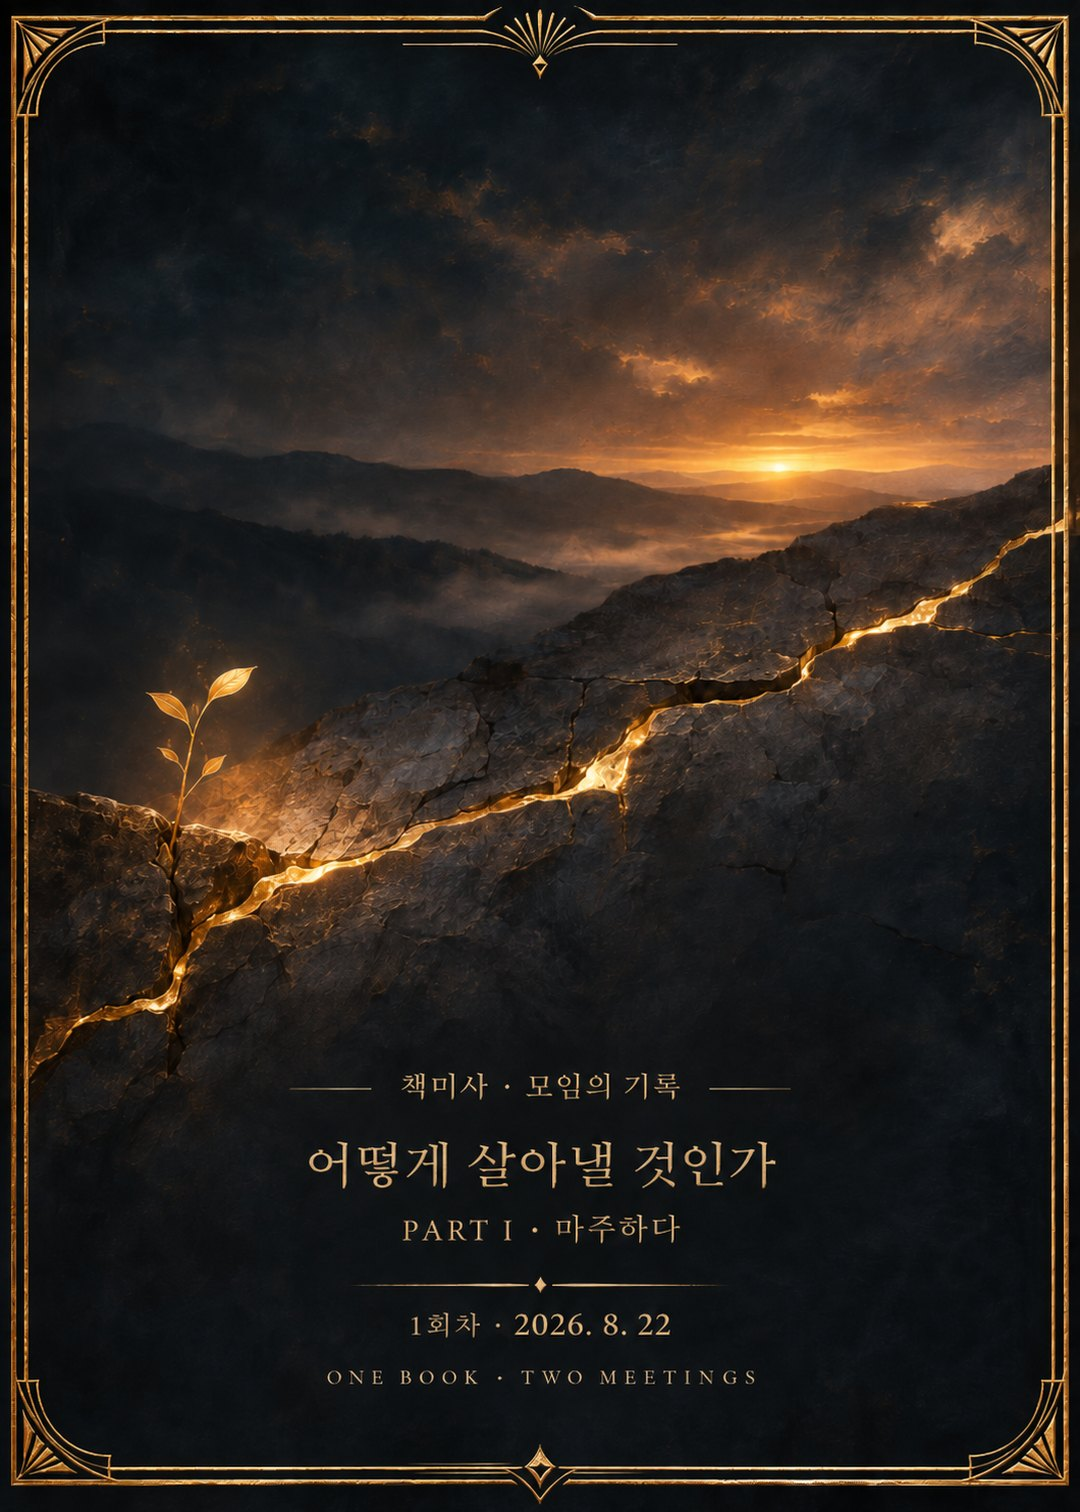
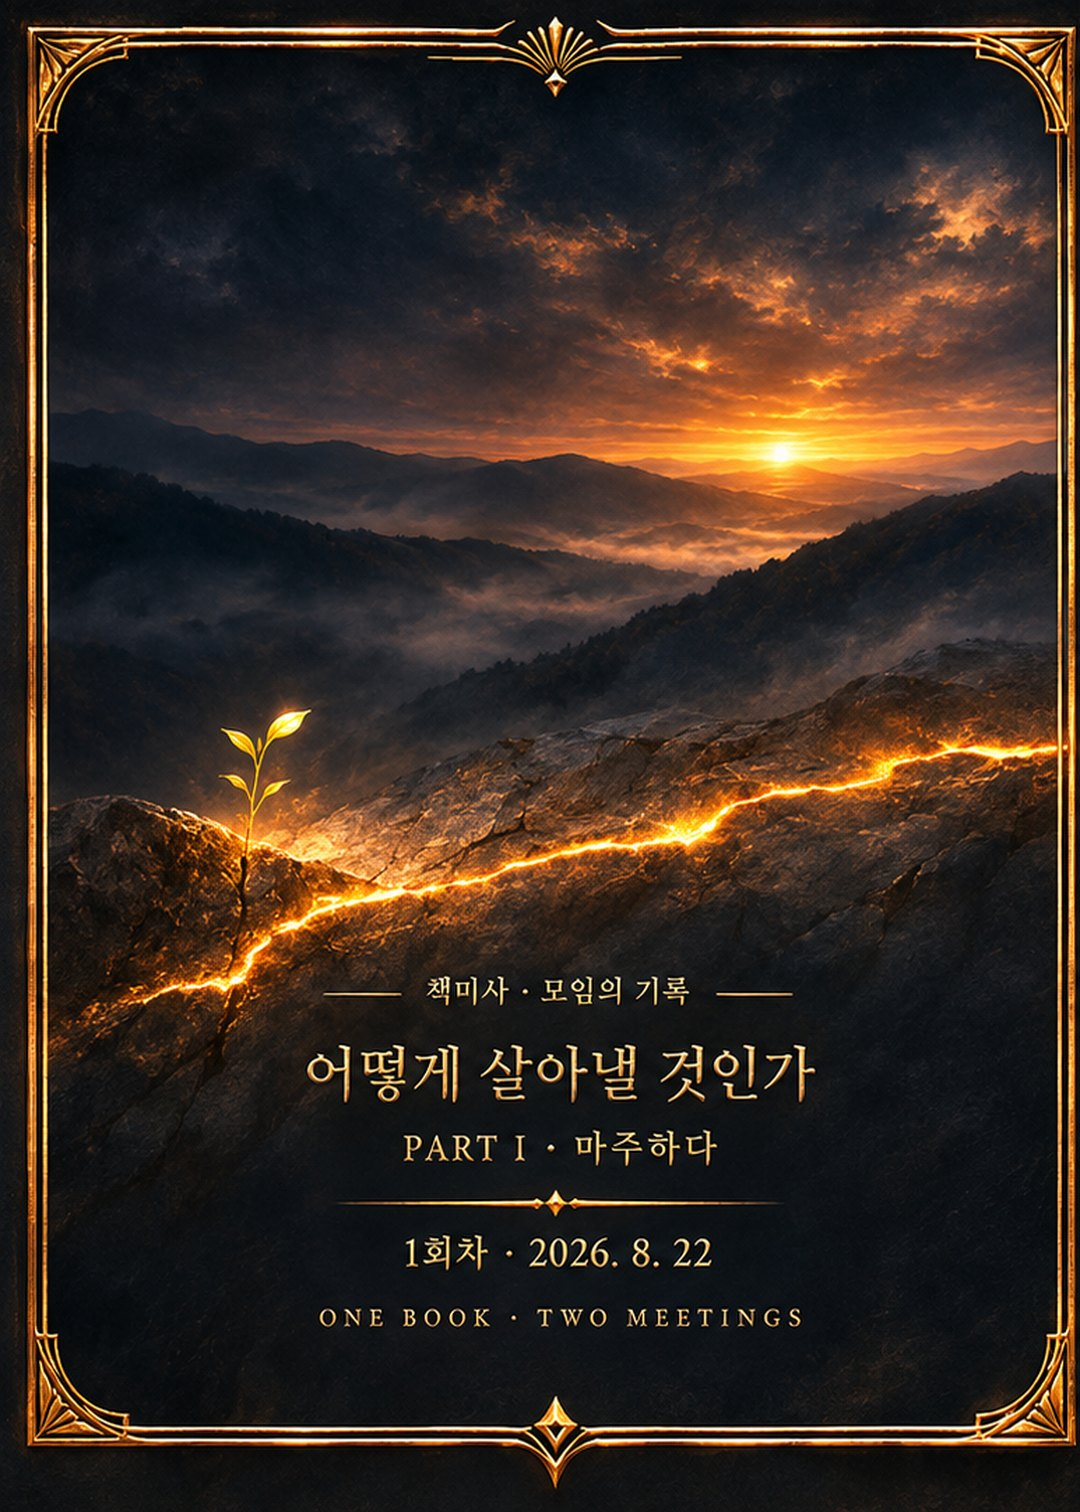
연결형 모임카드 그림 다시 받음(1080x1512, 균열 이어짐)

diff --git a/index.html b/index.html
@@ -1663,11 +1663,11 @@ window.MEMBERS={"에스파다": [0, 1, 2, 3, 4, 5, 6, 7, 8, 9, 10, 11, 12, 13, 1
 window.MEETS={"m": {"6": ["2026-04-18", "경제독서"], "0": ["2026-06-20", "문학산책"], "5": ["2026-07-04", "지정독서"], "4": ["2026-07-25", "지정독서"], "1": ["2026-08-12", "수요독서"], "2": ["2026-08-22", "지정독서"], "7": ["2026-08-29", "문학산책"], "3": ["2026-09-12", "문학산책"], "136": ["2026-10-17", "문학산책"], "164": ["2026-10-24", "지정독서"], "168": ["2026-11-07", "지정독서"], "169": ["2026-11-14", "지정독서"], "170": ["2026-11-21", "문학산책"], "8": ["2022-07-23", "문학산책"], "9": ["2022-08-20", "문학산책"], "10": ["2022-09-24", "문학산책"], "11": ["2022-09-25", "경제독서"], "12": ["2022-09-26", "경제독서"], "13": ["2022-09-30", "지정독서"], "14": ["2022-10-03", "한책읽기"], "15": ["2022-10-03", "경제독서"], "16": ["2022-10-05", "경제독서"], "17": ["2022-10-10", "수요독서"], "18": ["2022-10-22", "문학산책"], "19": ["2022-10-26", "경제독서"], "20": ["2022-10-29", "지정독서"], "21": ["2022-11-05", "지원독서"], "22": ["2022-11-21", "오프모임"], "23": ["2022-11-26", "문학산책"], "24": ["2022-11-30", "경제독서"], "25": ["2022-12-03", "지원독서"], "26": ["2023-01-02", "한책읽기"], "27": ["2023-01-08", "수요독서"], "28": ["2023-01-09", "문학산책"], "29": ["2023-01-19", "지정독서"], "30": ["2023-01-21", "경제독서"], "31": ["2023-02-02", "지정독서"], "32": ["2023-02-10", "지정독서"], "33": ["2023-02-12", "수요독서"], "34": ["2023-02-25", "오프모임"], "35": ["2023-02-26", "경제독서"], "36": ["2023-03-02", "한책읽기"], "37": ["2023-03-07", "지정독서"], "38": ["2023-03-16", "지정독서"], "39": ["2023-03-20", "문학산책"], "40": ["2023-03-22", "경제독서"], "41": ["2023-04-05", "지정독서"], "42": ["2023-04-19", "문학산책"], "43": ["2023-04-24", "경제독서"], "44": ["2023-05-06", "오프모임"], "45": ["2023-05-30", "수요독서"], "46": ["2023-05-30", "경제독서"], "47": ["2023-05-30", "문학산책"], "48": ["2023-06-05", "한책읽기"], "49": ["2023-06-09", "지정독서"], "50": ["2023-06-16", "문학산책"], "51": ["2023-06-24", "경제독서"], "52": ["2023-07-08", "오프모임"], "53": ["2023-07-18", "수요독서"], "54": ["2023-07-21", "문학산책"], "55": ["2023-07-29", "경제독서"], "56": ["2023-08-04", "지원독서"], "57": ["2023-08-10", "지정독서"], "58": ["2023-08-19", "한책읽기"], "59": ["2023-08-21", "경제독서"], "60": ["2023-08-21", "문학산책"], "61": ["2023-09-01", "지원독서"], "62": ["2023-09-09", "오프모임"], "63": ["2023-09-20", "수요독서"], "64": ["2023-09-22", "경제독서"], "65": ["2023-10-13", "지정독서"], "66": ["2023-10-20", "문학산책"], "67": ["2023-10-29", "경제독서"], "68": ["2023-11-18", "오프모임"], "69": ["2023-11-16", "문학산책"], "70": ["2023-11-20", "수요독서"], "71": ["2023-11-23", "경제독서"], "72": ["2023-12-08", "오프모임"], "73": ["2023-12-15", "지정독서"], "74": ["2023-12-28", "경제독서"], "75": ["2024-01-13", "지정독서"], "76": ["2024-01-14", "수요독서"], "77": ["2024-01-19", "문학산책"], "78": ["2024-01-27", "경제독서"], "79": ["2024-02-03", "문학산책"], "80": ["2024-02-13", "한책읽기"], "81": ["2024-02-17", "오프모임"], "82": ["2024-02-23", "경제독서"], "83": ["2024-03-09", "지정독서"], "84": ["2024-03-14", "문학산책"], "85": ["2024-04-01", "한책읽기"], "86": ["2024-03-26", "수요독서"], "87": ["2024-03-30", "경제독서"], "88": ["2024-04-04", "지정독서"], "89": ["2024-04-13", "오프모임"], "90": ["2024-04-18", "문학산책"], "91": ["2024-04-22", "수요독서"], "92": ["2024-04-25", "경제독서"], "93": ["2024-05-12", "지정독서"], "94": ["2024-05-25", "경제독서"], "95": ["2024-06-14", "지정독서"], "96": ["2024-06-21", "문학산책"], "97": ["2024-07-01", "한책읽기"], "98": ["2024-07-07", "지정독서"], "99": ["2024-07-24", "경제독서"], "100": ["2024-07-24", "문학산책"], "101": ["2024-09-01", "경제독서"], "102": ["2024-09-03", "지정독서"], "103": ["2024-09-03", "문학산책"], "104": ["2024-09-08", "지정독서"], "105": ["2024-10-01", "한책읽기"], "106": ["2024-09-21", "수요독서"], "107": ["2024-09-26", "경제독서"], "108": ["2024-10-12", "오프모임"], "109": ["2024-10-19", "문학산책"], "110": ["2024-10-23", "수요독서"], "111": ["2024-10-30", "지정독서"], "112": ["2024-11-11", "지정독서"], "113": ["2024-11-21", "문학산책"], "114": ["2024-11-27", "경제독서"], "115": ["2022-09-14", "수요독서"], "116": ["2025-11-15", "지정독서"], "117": ["2026-01-31", "지정독서"], "118": ["2025-05-24", "문학산책"], "119": ["2026-03-21", "문학산책"], "120": ["2025-05-10", "오프모임"], "121": ["2025-02-06", "한책읽기"], "122": ["2025-05-08", "한책읽기"], "123": ["2025-07-26", "지정독서"], "124": ["2024-03-24", "오프모임"], "125": ["2026-04-11", "문학산책"], "126": ["2026-02-28", "경제독서"], "127": ["2026-05-09", "경제독서"], "128": ["2026-02-14", "오프모임"], "129": ["2025-02-22", "오프모임"], "130": ["2020-01-04", "오프모임"], "131": ["2020-02-08", "오프모임"], "132": ["2020-07-31", "오프모임"], "133": ["2021-01-23", "지정독서"], "134": ["2021-10-16", "지정독서"], "137": ["2022-03-19", "문학산책"], "138": ["2022-04-02", "지정독서"], "139": ["2022-04-23", "문학산책"], "140": ["2022-05-07", "지정독서"], "141": ["2022-05-21", "문학산책"], "142": ["2022-06-11", "지정독서"], "143": ["2022-06-25", "문학산책"], "144": ["2022-06-20", "한책읽기"], "145": ["2022-08-15", "한책읽기"], "146": ["2022-08-03", "수요독서"], "147": ["2023-09-16", "문학산책"], "148": ["2024-01-28", "문학산책"], "149": ["2024-08-09", "오프모임"], "150": ["2024-12-20", "오프모임"], "151": ["2022-02-19", "문학산책"], "152": ["2022-03-16", "경제독서"], "153": ["2025-01-11", "지정독서"], "154": ["2025-02-08", "문학산책"], "155": ["2025-01-18", "경제독서"], "156": ["2025-03-22", "문학산책"], "157": ["2025-04-05", "경제독서"], "158": ["2025-04-17", "수요독서"], "159": ["2025-04-26", "경제독서"], "160": ["2025-05-31", "경제독서"], "161": ["2025-06-21", "문학산책"], "162": ["2025-07-12", "수요독서"], "163": ["2025-08-30", "경제독서"], "165": ["2025-08-23", "지정독서"], "166": ["2025-02-26", "지정독서"], "167": ["2025-02-01", "문학산책"]}, "u": [{"t": "남에게 보여주려고 인생을 낭비하지 마라", "m": "지정독서", "d": "2026-11-28"}, {"t": "달과 6펜스", "m": "문학산책", "d": "2026-12-05"}, {"t": "러브 머신", "m": "지정독서", "d": "2026-12-12"}, {"t": "브레이크넥", "m": "경제독서", "d": "2026-12-19"}, {"t": "드디어 만나는 천문학 수업", "m": "지정독서", "d": "2026-12-26"}], "n": {"26": 20, "28": 13, "27": 9, "29": 10, "30": 13, "31": 12, "32": 11, "34": 10, "35": 9, "36": 18, "37": 15, "33": 10, "38": 13, "39": 12, "40": 7, "41": 7, "42": 15, "43": 10, "44": 13, "47": 14, "45": 9, "46": 7, "48": 20, "49": 26, "50": 13, "51": 7, "52": 20, "53": 11, "54": 20, "55": 14, "57": 15, "60": 14, "58": 11, "59": 18, "61": 8, "62": 21, "147": 11, "63": 20, "64": 11, "65": 11, "66": 16, "67": 11, "69": 10, "68": 19, "70": 16, "71": 10, "72": 13, "73": 26, "75": 15, "80": 23, "76": 20, "77": 21, "78": 8, "148": 12, "79": 15, "81": 11, "82": 17, "83": 19, "84": 23, "86": 16, "124": 18, "87": 13, "85": 28, "90": 20, "91": 15, "92": 9, "89": 17, "93": 14, "94": 10, "95": 26, "115": 20, "96": 21, "97": 22, "98": 20, "100": 15, "99": 12, "102": 20, "149": 13, "106": 13, "103": 10, "101": 8, "104": 24, "107": 9, "108": 17, "105": 24, "109": 15, "110": 11, "112": 13, "113": 23, "114": 12, "150": 14}};
 window.MEETART={
 "2026-08-22": {
-"bg": "#110f0d",
+"bg": "#13100e",
 "full": 1
 },
 "2026-09-19": {
-"bg": "#12100d",
+"bg": "#14110e",
 "full": 1
 },
 "2026-11-07": {

diff --git a/binder/index.html b/binder/index.html
@@ -71,11 +71,11 @@ window.MEMBERS={"에스파다": [0, 1, 2, 3, 4, 5, 6, 7, 8, 9, 10, 11, 12, 13, 1
 window.MEETS={"m": {"6": ["2026-04-18", "경제독서"], "0": ["2026-06-20", "문학산책"], "5": ["2026-07-04", "지정독서"], "4": ["2026-07-25", "지정독서"], "1": ["2026-08-12", "수요독서"], "2": ["2026-08-22", "지정독서"], "7": ["2026-08-29", "문학산책"], "3": ["2026-09-12", "문학산책"], "136": ["2026-10-17", "문학산책"], "164": ["2026-10-24", "지정독서"], "168": ["2026-11-07", "지정독서"], "169": ["2026-11-14", "지정독서"], "170": ["2026-11-21", "문학산책"], "8": ["2022-07-23", "문학산책"], "9": ["2022-08-20", "문학산책"], "10": ["2022-09-24", "문학산책"], "11": ["2022-09-25", "경제독서"], "12": ["2022-09-26", "경제독서"], "13": ["2022-09-30", "지정독서"], "14": ["2022-10-03", "한책읽기"], "15": ["2022-10-03", "경제독서"], "16": ["2022-10-05", "경제독서"], "17": ["2022-10-10", "수요독서"], "18": ["2022-10-22", "문학산책"], "19": ["2022-10-26", "경제독서"], "20": ["2022-10-29", "지정독서"], "21": ["2022-11-05", "지원독서"], "22": ["2022-11-21", "오프모임"], "23": ["2022-11-26", "문학산책"], "24": ["2022-11-30", "경제독서"], "25": ["2022-12-03", "지원독서"], "26": ["2023-01-02", "한책읽기"], "27": ["2023-01-08", "수요독서"], "28": ["2023-01-09", "문학산책"], "29": ["2023-01-19", "지정독서"], "30": ["2023-01-21", "경제독서"], "31": ["2023-02-02", "지정독서"], "32": ["2023-02-10", "지정독서"], "33": ["2023-02-12", "수요독서"], "34": ["2023-02-25", "오프모임"], "35": ["2023-02-26", "경제독서"], "36": ["2023-03-02", "한책읽기"], "37": ["2023-03-07", "지정독서"], "38": ["2023-03-16", "지정독서"], "39": ["2023-03-20", "문학산책"], "40": ["2023-03-22", "경제독서"], "41": ["2023-04-05", "지정독서"], "42": ["2023-04-19", "문학산책"], "43": ["2023-04-24", "경제독서"], "44": ["2023-05-06", "오프모임"], "45": ["2023-05-30", "수요독서"], "46": ["2023-05-30", "경제독서"], "47": ["2023-05-30", "문학산책"], "48": ["2023-06-05", "한책읽기"], "49": ["2023-06-09", "지정독서"], "50": ["2023-06-16", "문학산책"], "51": ["2023-06-24", "경제독서"], "52": ["2023-07-08", "오프모임"], "53": ["2023-07-18", "수요독서"], "54": ["2023-07-21", "문학산책"], "55": ["2023-07-29", "경제독서"], "56": ["2023-08-04", "지원독서"], "57": ["2023-08-10", "지정독서"], "58": ["2023-08-19", "한책읽기"], "59": ["2023-08-21", "경제독서"], "60": ["2023-08-21", "문학산책"], "61": ["2023-09-01", "지원독서"], "62": ["2023-09-09", "오프모임"], "63": ["2023-09-20", "수요독서"], "64": ["2023-09-22", "경제독서"], "65": ["2023-10-13", "지정독서"], "66": ["2023-10-20", "문학산책"], "67": ["2023-10-29", "경제독서"], "68": ["2023-11-18", "오프모임"], "69": ["2023-11-16", "문학산책"], "70": ["2023-11-20", "수요독서"], "71": ["2023-11-23", "경제독서"], "72": ["2023-12-08", "오프모임"], "73": ["2023-12-15", "지정독서"], "74": ["2023-12-28", "경제독서"], "75": ["2024-01-13", "지정독서"], "76": ["2024-01-14", "수요독서"], "77": ["2024-01-19", "문학산책"], "78": ["2024-01-27", "경제독서"], "79": ["2024-02-03", "문학산책"], "80": ["2024-02-13", "한책읽기"], "81": ["2024-02-17", "오프모임"], "82": ["2024-02-23", "경제독서"], "83": ["2024-03-09", "지정독서"], "84": ["2024-03-14", "문학산책"], "85": ["2024-04-01", "한책읽기"], "86": ["2024-03-26", "수요독서"], "87": ["2024-03-30", "경제독서"], "88": ["2024-04-04", "지정독서"], "89": ["2024-04-13", "오프모임"], "90": ["2024-04-18", "문학산책"], "91": ["2024-04-22", "수요독서"], "92": ["2024-04-25", "경제독서"], "93": ["2024-05-12", "지정독서"], "94": ["2024-05-25", "경제독서"], "95": ["2024-06-14", "지정독서"], "96": ["2024-06-21", "문학산책"], "97": ["2024-07-01", "한책읽기"], "98": ["2024-07-07", "지정독서"], "99": ["2024-07-24", "경제독서"], "100": ["2024-07-24", "문학산책"], "101": ["2024-09-01", "경제독서"], "102": ["2024-09-03", "지정독서"], "103": ["2024-09-03", "문학산책"], "104": ["2024-09-08", "지정독서"], "105": ["2024-10-01", "한책읽기"], "106": ["2024-09-21", "수요독서"], "107": ["2024-09-26", "경제독서"], "108": ["2024-10-12", "오프모임"], "109": ["2024-10-19", "문학산책"], "110": ["2024-10-23", "수요독서"], "111": ["2024-10-30", "지정독서"], "112": ["2024-11-11", "지정독서"], "113": ["2024-11-21", "문학산책"], "114": ["2024-11-27", "경제독서"], "115": ["2022-09-14", "수요독서"], "116": ["2025-11-15", "지정독서"], "117": ["2026-01-31", "지정독서"], "118": ["2025-05-24", "문학산책"], "119": ["2026-03-21", "문학산책"], "120": ["2025-05-10", "오프모임"], "121": ["2025-02-06", "한책읽기"], "122": ["2025-05-08", "한책읽기"], "123": ["2025-07-26", "지정독서"], "124": ["2024-03-24", "오프모임"], "125": ["2026-04-11", "문학산책"], "126": ["2026-02-28", "경제독서"], "127": ["2026-05-09", "경제독서"], "128": ["2026-02-14", "오프모임"], "129": ["2025-02-22", "오프모임"], "130": ["2020-01-04", "오프모임"], "131": ["2020-02-08", "오프모임"], "132": ["2020-07-31", "오프모임"], "133": ["2021-01-23", "지정독서"], "134": ["2021-10-16", "지정독서"], "137": ["2022-03-19", "문학산책"], "138": ["2022-04-02", "지정독서"], "139": ["2022-04-23", "문학산책"], "140": ["2022-05-07", "지정독서"], "141": ["2022-05-21", "문학산책"], "142": ["2022-06-11", "지정독서"], "143": ["2022-06-25", "문학산책"], "144": ["2022-06-20", "한책읽기"], "145": ["2022-08-15", "한책읽기"], "146": ["2022-08-03", "수요독서"], "147": ["2023-09-16", "문학산책"], "148": ["2024-01-28", "문학산책"], "149": ["2024-08-09", "오프모임"], "150": ["2024-12-20", "오프모임"], "151": ["2022-02-19", "문학산책"], "152": ["2022-03-16", "경제독서"], "153": ["2025-01-11", "지정독서"], "154": ["2025-02-08", "문학산책"], "155": ["2025-01-18", "경제독서"], "156": ["2025-03-22", "문학산책"], "157": ["2025-04-05", "경제독서"], "158": ["2025-04-17", "수요독서"], "159": ["2025-04-26", "경제독서"], "160": ["2025-05-31", "경제독서"], "161": ["2025-06-21", "문학산책"], "162": ["2025-07-12", "수요독서"], "163": ["2025-08-30", "경제독서"], "165": ["2025-08-23", "지정독서"], "166": ["2025-02-26", "지정독서"], "167": ["2025-02-01", "문학산책"]}, "u": [{"t": "남에게 보여주려고 인생을 낭비하지 마라", "m": "지정독서", "d": "2026-11-28"}, {"t": "달과 6펜스", "m": "문학산책", "d": "2026-12-05"}, {"t": "러브 머신", "m": "지정독서", "d": "2026-12-12"}, {"t": "브레이크넥", "m": "경제독서", "d": "2026-12-19"}, {"t": "드디어 만나는 천문학 수업", "m": "지정독서", "d": "2026-12-26"}], "n": {"26": 20, "28": 13, "27": 9, "29": 10, "30": 13, "31": 12, "32": 11, "34": 10, "35": 9, "36": 18, "37": 15, "33": 10, "38": 13, "39": 12, "40": 7, "41": 7, "42": 15, "43": 10, "44": 13, "47": 14, "45": 9, "46": 7, "48": 20, "49": 26, "50": 13, "51": 7, "52": 20, "53": 11, "54": 20, "55": 14, "57": 15, "60": 14, "58": 11, "59": 18, "61": 8, "62": 21, "147": 11, "63": 20, "64": 11, "65": 11, "66": 16, "67": 11, "69": 10, "68": 19, "70": 16, "71": 10, "72": 13, "73": 26, "75": 15, "80": 23, "76": 20, "77": 21, "78": 8, "148": 12, "79": 15, "81": 11, "82": 17, "83": 19, "84": 23, "86": 16, "124": 18, "87": 13, "85": 28, "90": 20, "91": 15, "92": 9, "89": 17, "93": 14, "94": 10, "95": 26, "115": 20, "96": 21, "97": 22, "98": 20, "100": 15, "99": 12, "102": 20, "149": 13, "106": 13, "103": 10, "101": 8, "104": 24, "107": 9, "108": 17, "105": 24, "109": 15, "110": 11, "112": 13, "113": 23, "114": 12, "150": 14}};
 window.MEETART={
 "2026-08-22": {
-"bg": "#110f0d",
+"bg": "#13100e",
 "full": 1
 },
 "2026-09-19": {
-"bg": "#12100d",
+"bg": "#14110e",
 "full": 1
 },
 "2026-11-07": {

diff --git a/binder/sw.js b/binder/sw.js
@@ -1,6 +1,6 @@
 // 책미사 바인더: 인터넷이 끊겨도 마지막으로 본 카드첩이 열리게.
 // 카드첩 자체는 늘 새로 받아 보고(새 카드가 바로 보이게), 안 되면 저장해 둔 것을 연다. 그림은 저장해 둔 것을 먼저.
-const C='binder-e3cd206e37';
+const C='binder-84918efc52';
 self.addEventListener('install',e=>{ self.skipWaiting(); e.waitUntil(caches.open(C).then(c=>c.addAll(['./','./manifest.webmanifest','./icon-192.png']).catch(()=>{}))); });
 self.addEventListener('activate',e=>{ e.waitUntil(caches.keys().then(ks=>Promise.all(ks.filter(k=>k.startsWith('binder-')&&k!==C).map(k=>caches.delete(k)))).then(()=>self.clients.claim())); });
 self.addEventListener('fetch',e=>{ const r=e.request; if(r.method!=='GET') return; const u=new URL(r.url);
